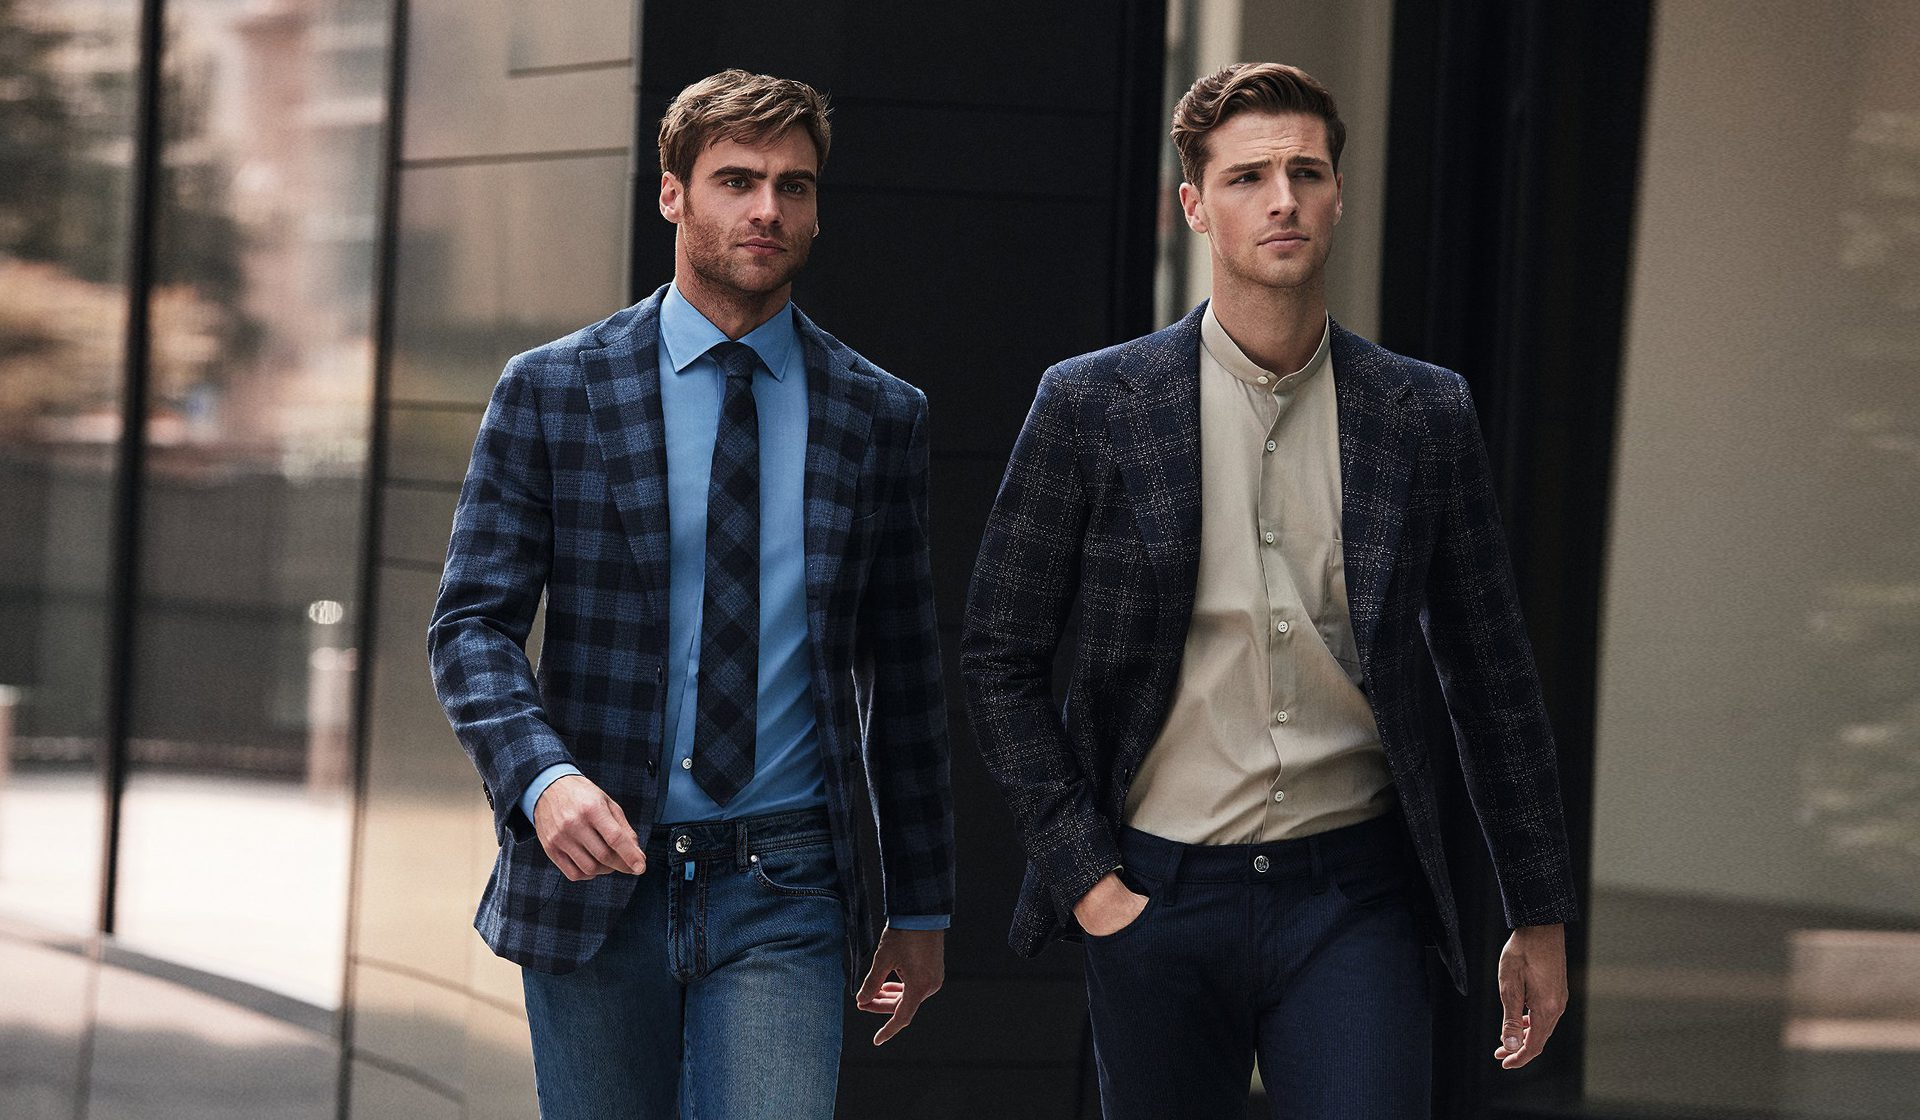
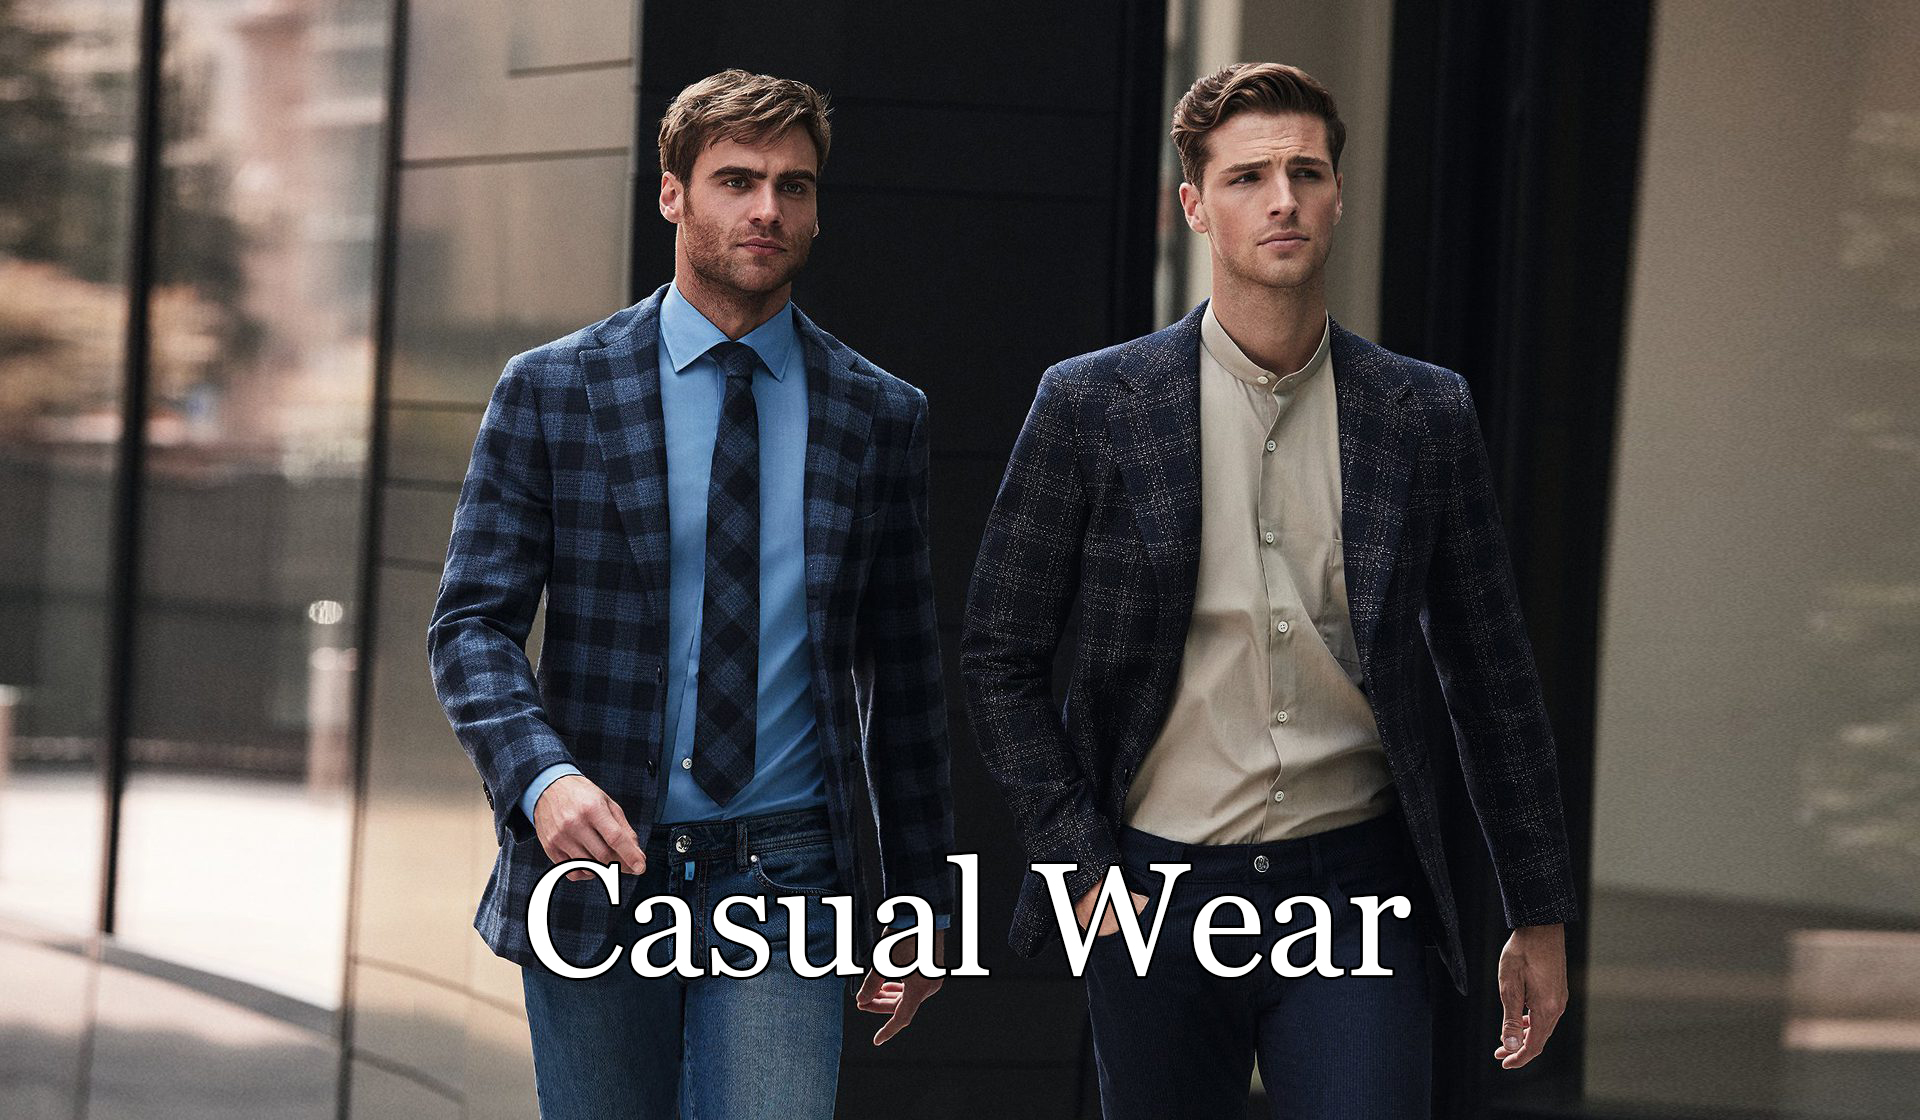
update2

Changed region(s): [[0.25, 0.75, 0.75, 0.875]]

diff --git a/index.html b/index.html
@@ -1,4 +1,6 @@
-<html lang="en"><head>
+
+<html lang="en">
+    <head>
     <meta charset="UTF-8">
     <meta name="viewport" content="width=device-width, initial-scale=1.0">
     <title>Trendsetting Today</title>
@@ -37,32 +39,26 @@
     <div class="slideshow-container">
         <div class="mySlides">
             <img src="img/streetware/download.png" alt="Street Wear">
-            <div class="text"><img src="img/streetware/SW.png" alt=""></div>
         </div>
     
         <div class="mySlides">
             <img src="img/east asian/landing.jpeg" alt="East Asian">
-            <div class="text"><img src="img/east asian/EA.png" alt=""></div>
         </div>
     
         <div class="mySlides">
             <img src="img/soft/landing.jpg" alt="Soft Girl">
-            <div class="text"><img src="img/soft/SG.png" alt=""></div>
         </div>
     
         <div class="mySlides">
             <img src="img/punk/landing.jpg" alt="Punk">
-            <div class="text"><img src="img/punk/PW.png" alt=""></div>
         </div>
     
         <div class="mySlides">
             <img src="img/sport/landing.jpeg" alt="Sport Wear">
-            <div class="text"><img src="img/sport/SW.png" alt=""></div>
         </div>
     
         <div class="mySlides">
             <img src="img/casual/landing.jpg" alt="Casual Wear">
-            <div class="text"><img src="img/casual/CW.png" alt=""></div>
         </div>
     
         <div class="indicators">

diff --git a/styles.css b/styles.css
@@ -645,7 +645,7 @@ footer {
 
     .indicators {
         position: absolute;
-        bottom: 22.9rem; 
+        bottom: 22.8rem; 
         left: 50%; 
         transform: translateX(-50%); 
         display: flex; 
